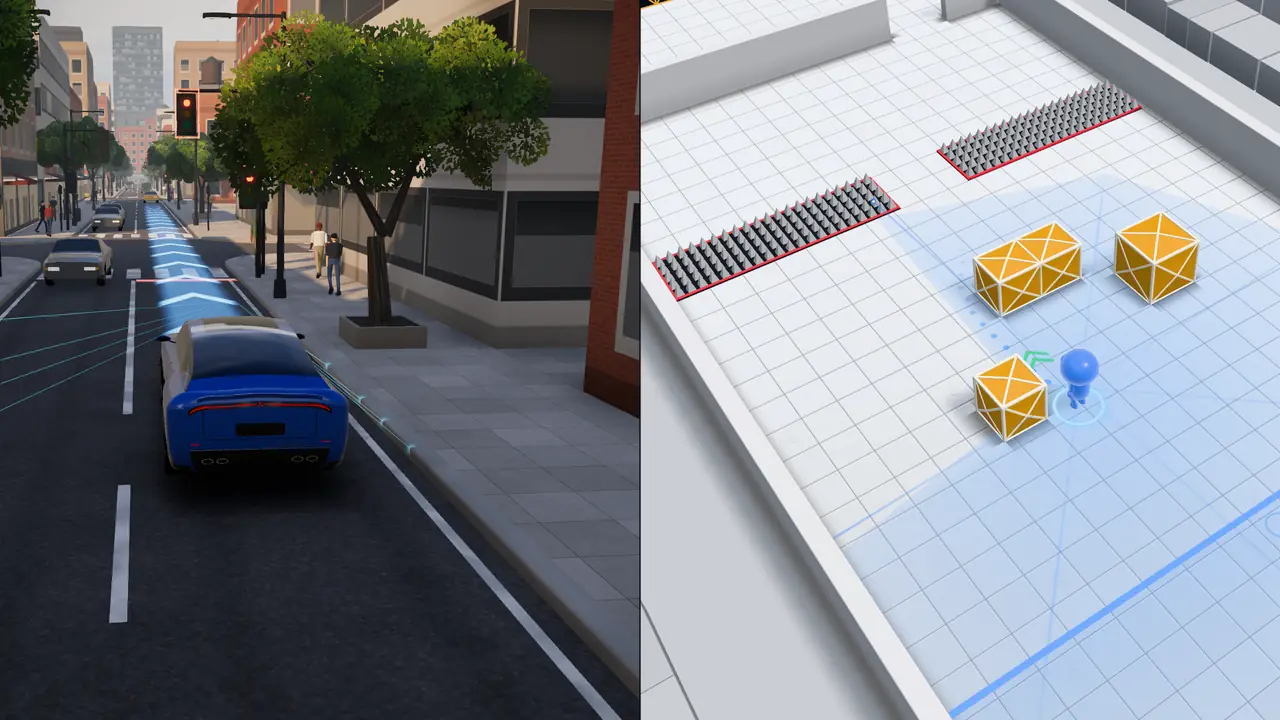
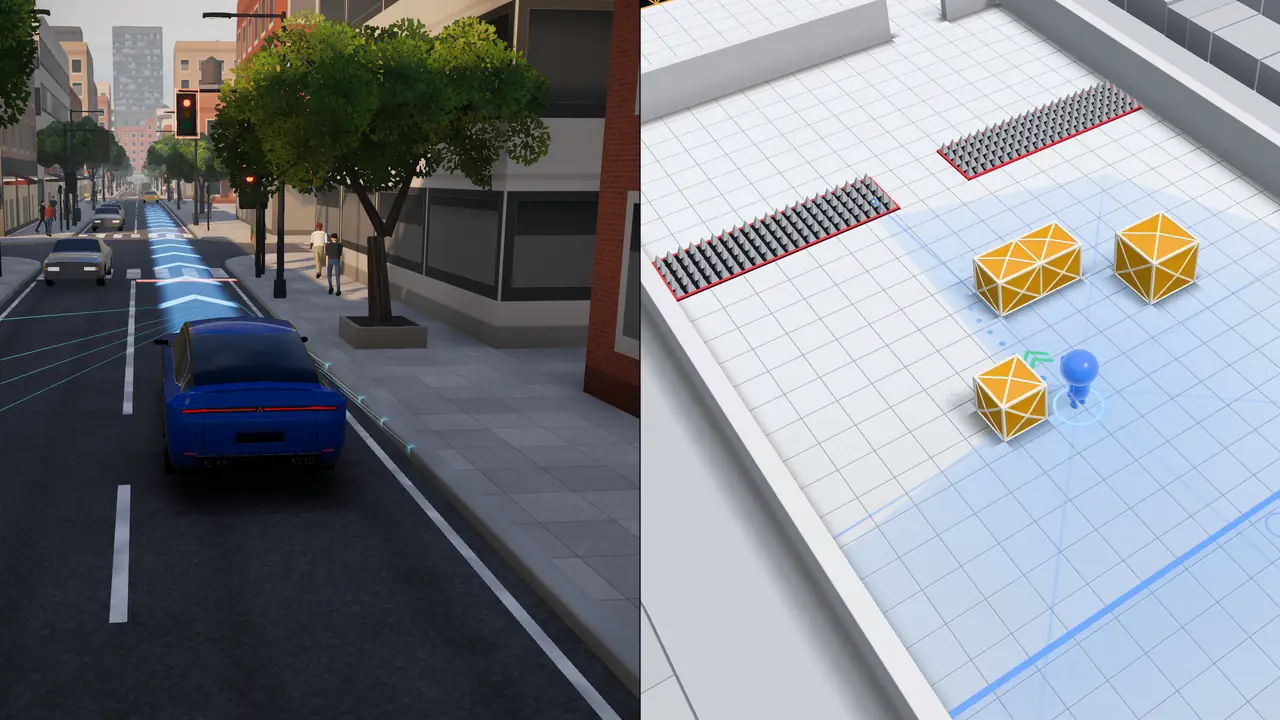
Recapture the hero posters with the current SUV
The last capture came from a build made before the second SUV design was
merged, so its SUV did not match the live one. The landing spec now checks
which poster frame the live scenes follow.

Claude-Session: https://claude.ai/code/session_01EmVWnswqzbVyRx3Yqy4QPc

Changed region(s): [[0.125, 0.3056, 0.2812, 0.6417], [0.2812, 0.0306, 0.375, 0.0611]]

diff --git a/tests/e2e/landing.spec.ts b/tests/e2e/landing.spec.ts
@@ -46,6 +46,9 @@ async function watchContexts(page: Page) {
 /** The runner card's clock, which only moves while the hero plays. */
 const runnerClock = (page: Page) => page.locator('[data-hero-card="run"] [data-hero-detail]').textContent();
 
+/** The poster frame the live scenes compose their shots for, or null when the hero frames itself. */
+const posterFrame = async (page: Page) => JSON.parse((await page.locator('[data-hero-frame]').getAttribute('data-hero-frame')) ?? 'null') as { kind: string } | null;
+
 test.describe('Landing hero', () => {
   test.setTimeout(420_000);
 
@@ -88,6 +91,8 @@ test.describe('Landing hero', () => {
     await expect(page.locator('[data-hero-card="run"]')).toContainText('Runner brain');
     // Both simulations run on the page itself: no worker starts for the hero.
     expect(workers).toHaveLength(0);
+    // The scenes are composed like the wide poster under them, so nothing jumps as they fade in.
+    expect((await posterFrame(page))?.kind).toBe('wide');
 
     // Scrolled away, the scenes and their simulations stand still; back on screen, they carry on.
     await page.locator('footer').scrollIntoViewIfNeeded();
@@ -102,6 +107,8 @@ test.describe('Landing hero', () => {
     await page.setViewportSize({ width: 1024, height: 768 });
     await expect(page.locator('[data-hero-panels]')).toBeVisible();
     await expect.poll(() => page.evaluate(cardsOverText)).toEqual([]);
+    // A 4:3 window gets the 4:3 poster, and the scenes follow it.
+    await expect.poll(async () => (await posterFrame(page))?.kind).toBe('standard');
     await page.setViewportSize({ width: 1440, height: 900 });
     // Each scene draws in a canvas of its own. Off-page contexts belong to libraries that keep one for the
     // whole visit (the text renderer measures glyphs on one), so they are not the hero's to release.
